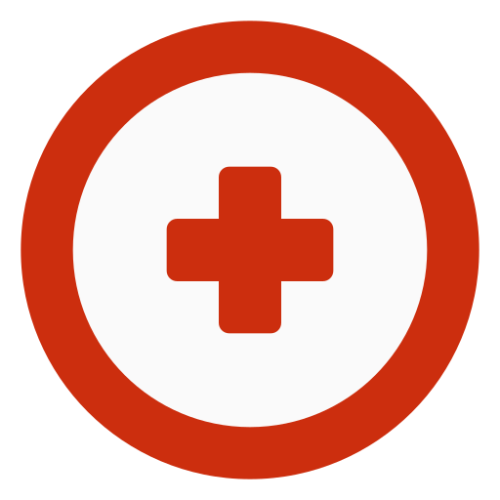
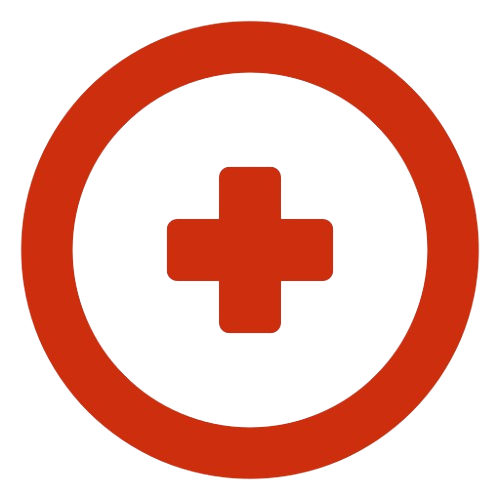
update pavicon

diff --git a/registrasi.html b/registrasi.html
@@ -5,7 +5,7 @@
     <meta name="viewport" content="width=device-width, initial-scale=1.0"/>
     <title>Rosella Care - Register</title>
 
-    <link rel="shortcut icon" href="./assets/images/IconRosellaCare.png" type="image/x-icon"/>
+    <link rel="shortcut icon" href="./assets/images/IconRosellaCare.ico" type="image/x-icon"/>
     <link rel="stylesheet" href="./assets/compiled/css/app.css"/>
     <link rel="stylesheet" href="assets/extensions/sweetalert2/sweetalert2.min.css"/>
   </head>
